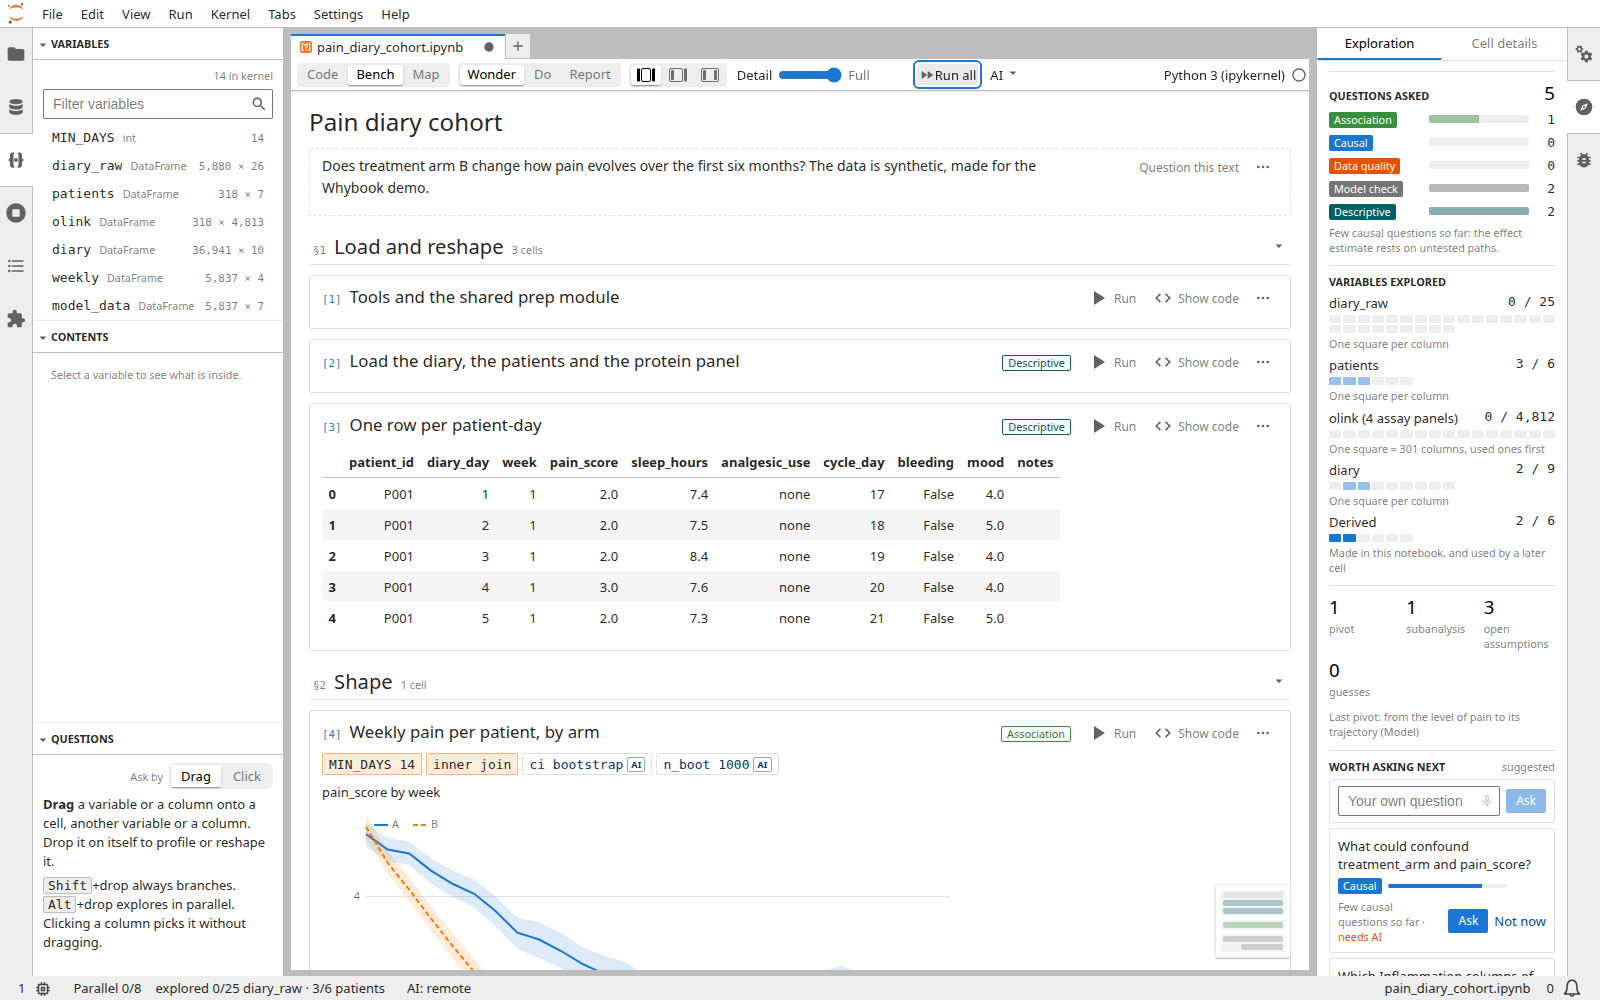
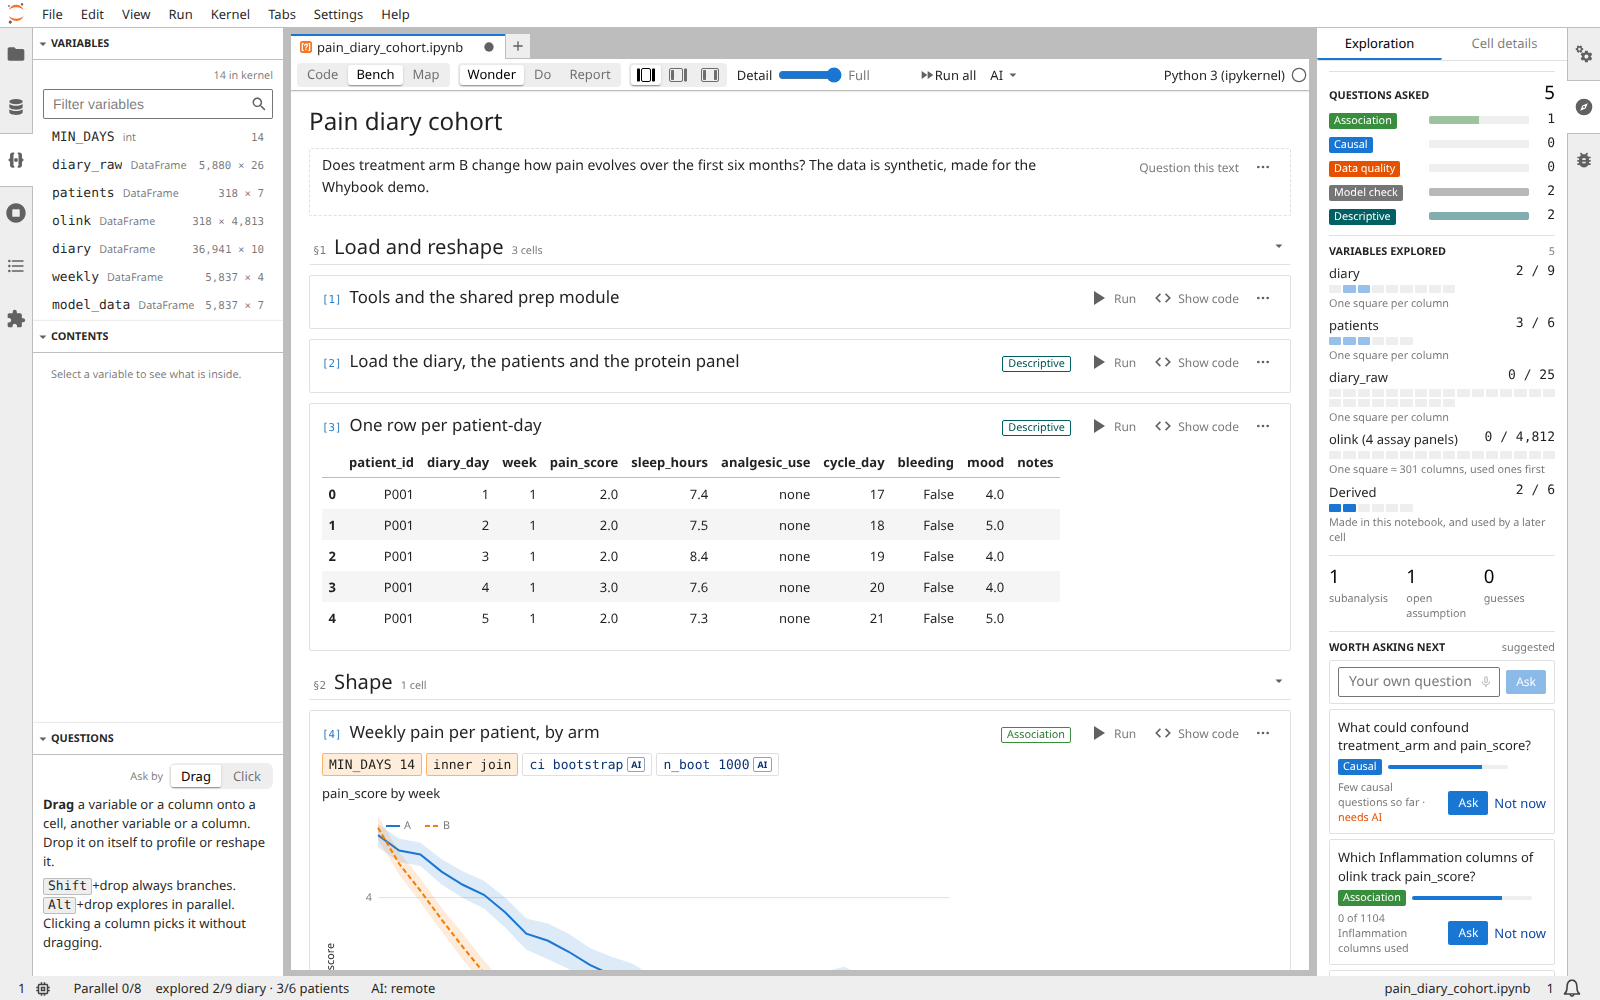
Update README, add CONTRIBUTING.md

diff --git a/README.md b/README.md
@@ -2,32 +2,33 @@
 
 [![Github Actions Status](https://github.com/openteams-ai/whybook/actions/workflows/build.yml/badge.svg)](https://github.com/openteams-ai/whybook/actions/workflows/build.yml)
 [![Sandbox](https://github.com/openteams-ai/whybook/actions/workflows/sandbox.yml/badge.svg)](https://github.com/openteams-ai/whybook/actions/workflows/sandbox.yml)
-[![Binder](https://mybinder.org/badge_logo.svg)](https://mybinder.org/v2/gh/openteams-ai/whybook/main?urlpath=lab/tree/pain_diary_demo.ipynb)
+[![PyPI](https://img.shields.io/pypi/v/whybook)](https://pypi.org/project/whybook/)
+[![Binder](https://mybinder.org/badge_logo.svg)](https://mybinder.org/v2/gh/openteams-ai/whybook/main?urlpath=lab/tree/examples/pain_diary/pain_diary_cohort.ipynb)
 
 > [!WARNING]
 > **Research prototype.** Whybook is a research prototype for the future of Jupyter interfaces: [whybook.dev](https://whybook.dev) describes the idea. Its features, settings and notebook metadata can change between releases without deprecation.
 
 ## You ask the questions. Agents write the code.
 
-Whybook is a view of a Jupyter notebook for asking questions about data and understanding every result. It has no chat box. The analyst picks one of the questions it offers, or types or says their own. The offers follow what the analyst points at (a column dragged onto a cell or clicked in Click mode, a region of a plot, a chip on a cell). The code comes from a template or from the AI model of the analyst's choice, and Whybook places the cell and runs it. Every constant, default and choice behind the result is shown on the cell, where the analyst can question it.
+Whybook is a JupyterLab extension: a view of a Jupyter notebook for asking questions about data and understanding every result. It has no chat box. The analyst picks one of the questions it offers, or types or says their own. The offers follow what the analyst points at (a column dragged onto a cell or clicked in Click mode, a region of a plot, a chip on a cell). The code comes from a template or from the AI model of the analyst's choice, and Whybook places the cell and runs it. Every constant, default and choice that Whybook finds behind the result is shown on the cell, where the analyst can question it.
+
+Any `.ipynb` file opens in Whybook and stays an ordinary notebook: the questions, choices and assumptions go into its metadata. Whybook opens next to JupyterLab's notebook editor, and both share one notebook model and one kernel, so an edit in one shows in the other.
 
 [whybook.dev](https://whybook.dev) also gives the evidence behind the idea, and [the roadmap](https://whybook.dev/roadmap.html) sets out the path to v1.
 
-![Whybook showing the demo notebook in JupyterLab after Run all. Cell [4] carries the chips MIN_DAYS 14, inner join, ci bootstrap and n_boot 1000, and the Exploration panel counts the questions asked by type.](https://raw.githubusercontent.com/openteams-ai/whybook/main/screenshots/bench.png)
+![Whybook showing the demo notebook in JupyterLab after Run all. Cell [4] carries the chips MIN_DAYS 14, inner join, ci bootstrap and n_boot 1000, and the Exploration panel counts the questions asked by type.](https://raw.githubusercontent.com/openteams-ai/whybook/main/screenshots/bench-chips.png)
 
 ## What it does
 
-- **Ask by pointing at the data.** The analyst drags a variable, a column, a file or a database table onto a cell, or clicks the two in Click mode, and Whybook offers up to 12 ranked questions of five types, each with a place in the notebook. Most of them run code from a template at once, with no model call.
-- **Every choice in plain sight.** After a cell runs, Whybook reads its code against the live kernel and shows each value that the result depends on as a chip, such as `MIN_DAYS 14`, or `inner join ×2` for two merges that keep pandas' default. A constant defined in an imported file shows on the cell that uses it.
-- **Question a plot.** Every mark of a plot drawn with the `whybook` helpers maps to rows of its data frame. Whybook counts the rows behind a selection, reports what differs there and offers questions about it.
+- **Ask by pointing at the data.** The analyst drags a variable, a column, a file or a table of a SQLite file onto a cell, or clicks the two in Click mode. Whybook then offers up to 12 ranked questions of five types (descriptive, data quality, association, causal and model check), each with a place in the notebook. Most of them run code from a template at once, with no model call.
+- **Every choice in plain sight.** After a cell runs, Whybook reads its code against the live kernel and shows each value that it finds the result depends on as a chip, such as `MIN_DAYS 14`, or `inner join ×2` for two merges that keep pandas' default. A constant defined in an imported file shows on the cell that uses it.
+- **Question a plot.** Every mark of a plot drawn with the `whybook` helpers maps to rows of its data frame, and so does a box drawn on a Plotly scatter chart, or on a matplotlib figure whose axes hold numbers and whose x label names a column. Whybook counts the rows behind a selection, reports what differs there and offers questions about it. A question about any other picture sends the picture to the AI model.
 - **Branch in parallel.** Shift+drop turns a question into a branch, and Alt+drop starts several branches at once. Each branch runs in its own kernel subshell (JEP 91, ipykernel 7), on the same data, and the notebook stays one list of cells.
 - **Answers that need AI.** For a question that needs a new cell, an agent adds and runs the cells it needs, and ends with a short answer that links the cells that show it. An edit, a branch or a preview gets one cell. Every cell that a model wrote is marked, and one click removes the cells of a run.
 - **Python and R.** In an R kernel, Whybook lists the variables, shows the chips and offers the questions, and a model writes the code of each answer in R. The templates write Python only.
 - **A kernel in a sandbox.** "Python 3 (sandboxed)" sees the notebook's folder and no network, under bubblewrap on Linux and Seatbelt on macOS. `python -m whybook.sandbox <kernel name>` makes a sandboxed copy of any other kernel, such as R.
 
-The notebook stays an ordinary `.ipynb` file: the questions, choices and assumptions go into its metadata. Whybook opens next to the classic notebook editor, and both share one notebook model and one kernel, so an edit in one shows in the other.
-
-![A selection of weeks 14 to 24 on the plot of cell [4]. Whybook counts 2,050 rows and 262 patients behind it, reports that A minus B is +1.86 there and +1.33 elsewhere, and offers three questions, each with its place in the notebook.](https://raw.githubusercontent.com/openteams-ai/whybook/main/screenshots/plot-selection.png)
+![A selection of weeks 14 to 24 on the plot of cell [4]. Whybook counts 2,050 rows and 262 patients behind it, reports that A minus B is +1.86 there and +1.33 elsewhere, and offers five questions, each with its place in the notebook.](https://raw.githubusercontent.com/openteams-ai/whybook/main/screenshots/plot-selection.png)
 
 The data in the screenshots is synthetic: the demo cohort of `examples/pain_diary`.
 
@@ -36,41 +37,40 @@ The data in the screenshots is synthetic: the demo cohort of `examples/pain_diar
 Whybook needs Python 3.10 or later and JupyterLab 4.4 or later, in the 4.x series.
 
 ```bash
-pip install "whybook[claude,kernel,demo,local,models]"
+pip install "whybook[kernel,demo,models]"
 jupyter lab
 ```
 
-`local` builds llama-cpp-python for the local models, with the system's C++ compiler, in about 4 minutes: without a compiler, leave it out of the list. Add `speech` for spoken questions transcribed by Moonshine in the Jupyter server, on Linux x86_64 or macOS 15 on Apple silicon.
+To run small AI models in the Jupyter server too, add `local`: pip builds llama-cpp-python with the system's C++ compiler, in about 4 minutes on 8 virtual CPUs.
 
-To open a notebook in Whybook, right-click it in the file browser and choose Open With, then Whybook. On JupyterLab 4.6 and later, the sections of the Whybook panel can also move to the file browser.
+```bash
+pip install "whybook[kernel,demo,local,models]"
+jupyter lab
+```
+
+Add `speech` for spoken questions transcribed by Moonshine in the Jupyter server, on Linux x86_64 or macOS 15 on Apple silicon. On Linux, `speech` needs glibc 2.34 or later, as in Ubuntu 22.04. The setting Spoken questions in the AI models panel is off by default: choose Moonshine Medium or Small there. The first click on the microphone of a "Your own question" box then downloads the model.
+
+Whybook reads the data in the kernel. When a kernel runs in another environment, install `whybook[kernel]` there too, and `demo` for the demo. `kernel` installs narwhals, and without it the Variables panel shows data frames without their columns.
+
+To open a notebook in Whybook, right-click it in the file browser and choose Open With, then Whybook. With a notebook open in JupyterLab's notebook editor, "Open Notebook in Whybook" in the command palette does the same. A new notebook starts from the Whybook section of the Launcher, or from File, New, Whybook. A double-click still opens JupyterLab's notebook editor. To open notebooks in Whybook by default, set Default Viewers of the Document Manager to `{"notebook": "Whybook"}` in the Settings Editor. On JupyterLab 4.6 and later, the sections of the Whybook panel can also move to the file browser.
 
 Whybook also runs in Jupyter Notebook 7: on a notebook's page, the switch Notebook | Whybook in the menu bar shows Whybook in place of the notebook editor. Whybook has some limitations in Notebook 7 that it does not have in JupyterLab. They are bugs and improvements, tracked in issues of their own, often in upstream projects.
 
 ## Try the demo
 
-Clone this repository and open `pain_diary_demo.ipynb` from its root in Whybook, then press Run all: the notebook imports its helpers and data from `examples/pain_diary/`. `pain_diary_demo_6h.ipynb` is the same analysis after six more hours of work.
+Clone this repository and open `examples/pain_diary/pain_diary_cohort.ipynb` in Whybook, then press Run all: the notebook imports its helpers and data from `prep.py` in the same folder. `examples/pain_diary/pain_diary_cohort_6h.ipynb` is the same analysis after six more hours of work.
 
-The questions from templates work with no AI model. Questions marked needs AI, and questions that the analyst types, need a model connected in the AI models panel: OpenRouter or Hugging Face after a sign-in, an API key of Anthropic, OpenAI, Google or Mistral AI, or a model server on this machine.
+The questions from templates work with no AI model. Questions marked needs AI, and questions that the analyst types, need a model connected in the AI models panel: OpenRouter after a sign-in, a Hugging Face access token, an API key of Anthropic, OpenAI, Google or Mistral AI, or a model server on this machine.
+
+To try it without installing, [open the demo on Binder](https://mybinder.org/v2/gh/openteams-ai/whybook/main?urlpath=lab/tree/examples/pain_diary/pain_diary_cohort.ipynb), with no AI model connected.
 
 ## What leaves the machine
 
 Once a remote AI model is connected, Whybook sends it each table that it shows as a tile, to get a label, and asks it for more questions each time the analyst drags or clicks. With the setting "Keep data on this machine", no values, tables or pictures leave the machine, and `c.Whybook.keep_data_local = True` turns it on for every user of a Jupyter server.
 
-## Development
+## Report a problem or contribute
 
-Whybook is one Python package, `whybook`: the helpers that a notebook imports (`import whybook`), the server extension (`whybook.server`) and the frontend extension of the same name. From a clone of this repository:
-
-```bash
-pip install --editable ".[dev,test,claude,kernel,demo,speech]"
-jupyter-builder develop . --overwrite
-jupyter server extension enable whybook
-jlpm build
-pre-commit install
-```
-
-Run `jlpm build` again after each change to the TypeScript source, or keep `jlpm watch` running beside `jupyter lab`. The Python tests run with `pytest whybook/server/tests`, and the Jest tests with `jlpm test`. The integration tests are in `ui-tests/`, whose README has their commands.
-
-`pre-commit install` adds a git hook that runs stylelint, prettier and ESLint on the files of each commit, as `jlpm lint:check` does on every file on CI. When a linter fixes a file, the commit stops: stage the fix and commit again.
+Report a problem or ask a question in [the issues](https://github.com/openteams-ai/whybook/issues). [CONTRIBUTING.md](https://github.com/openteams-ai/whybook/blob/main/CONTRIBUTING.md) explains how to report a security problem privately, set up a checkout and run the tests.
 
 ## Uninstall
 
@@ -78,7 +78,14 @@ Run `jlpm build` again after each change to the TypeScript source, or keep `jlpm
 pip uninstall whybook
 ```
 
+pip leaves Whybook's folder in Jupyter's data folder, with the keys and sign-ins of the AI models panel in `keys.json`. To remove them, delete the `whybook` folder in the folder that `jupyter --data-dir` prints. The models that Whybook downloaded stay in the caches of Hugging Face and moonshine-voice, and in `~/.cache/whybook`. A kernel copied with `python -m whybook.sandbox` stays until `jupyter kernelspec remove <name>`. Whybook also installs jupyterlab-unfold, and the file browser stays a tree until `pip uninstall jupyterlab-unfold`.
+
 ## Troubleshoot
+
+- pip fails while it builds llama-cpp-python: install a C++ compiler, or leave `local` out of the list.
+- The Variables panel shows data frames without their columns: install `whybook[kernel]` in the kernel's environment.
+- Questions marked needs AI are greyed: connect a model in the AI models panel. The item of the status bar that starts with "AI:" opens it.
+- Python 3 (sandboxed) does not start: on Linux it needs bubblewrap, and on Ubuntu 24.04 also an AppArmor profile for bubblewrap. The "Error Starting Kernel" dialog gives the commands.
 
 If you are seeing the frontend extension, but it is not working, check that the server extension is enabled:
 
@@ -94,4 +101,4 @@ jupyter labextension list
 
 ## License
 
-Whybook is under the Apache License 2.0: see [LICENSE](LICENSE). The Seatbelt profiles in `whybook/sandbox/codex/` come from OpenAI Codex, under the same licence, with its LICENSE and NOTICE.
+Whybook is under the Apache License 2.0: see [LICENSE](https://github.com/openteams-ai/whybook/blob/main/LICENSE). The Seatbelt profiles in `whybook/sandbox/codex/` come from OpenAI Codex, under the same licence, with its LICENSE and NOTICE.

diff --git a/CONTRIBUTING.md b/CONTRIBUTING.md
@@ -1,0 +1,52 @@
+# Contributing to Whybook
+
+## Report a problem or propose a change
+
+Report a bug or ask a question in [the issues](https://github.com/openteams-ai/whybook/issues). Give the versions of Whybook, JupyterLab, Python and the browser, the steps that show the problem, and what you expected. Leave out API keys, and data that you cannot share.
+
+Pull requests are welcome. For a change larger than a fix, open an issue first to discuss it. CI runs the linters and the tests on each pull request.
+
+## Report a security problem
+
+Report a security problem privately, never in a public issue. On the [Security tab](https://github.com/openteams-ai/whybook/security) of this repository, press "Report a vulnerability".
+
+## Full install
+
+A full install of a release adds the local models and the Claude Code login to what the README installs:
+
+```bash
+pip install "whybook[claude,kernel,demo,local,models]"
+```
+
+The extra `claude` serves the Claude Code login, for development only: the server offers it when it starts with `--Whybook.claude_code_login=True`.
+
+## Set up a checkout
+
+Whybook is one Python package, `whybook`: the helpers that a notebook imports (`import whybook`), the server extension (`whybook.server`) and the frontend extension of the same name. The editable install builds the frontend extension, so it needs [Node.js](https://nodejs.org/en/download), in its latest LTS release. From a clone of this repository:
+
+```bash
+pip install --editable ".[dev,test,claude,kernel,demo,models]"
+jupyter-builder develop . --overwrite
+jupyter server extension enable whybook
+jlpm build
+pre-commit install
+```
+
+Add `speech` where moonshine-voice has a wheel: macOS 15 on Apple silicon, Linux with glibc 2.34 or later, and Windows.
+
+`jlpm` is the version of yarn that JupyterLab installs. Run `jlpm build` again after each change to the TypeScript source, or keep `jlpm watch` running beside `jupyter lab`.
+
+## Run the tests and the linters
+
+- `pytest` from the root runs the Python tests. Where no sandbox can start, the tests of the sandboxed kernel skip.
+- `jlpm test` runs the Jest tests.
+- The integration tests are in `ui-tests/`, whose README has their commands.
+- `jlpm lint:check` runs stylelint, prettier and ESLint on every file, as CI does. ESLint reads the types of the integration tests from `ui-tests/node_modules`, so run `jlpm install` in `ui-tests/` first.
+
+The git hook of `pre-commit install` runs the same linters on the files of each commit. When a linter fixes a file, the commit stops: stage the fix and commit again.
+
+## Rules for a change
+
+- No test calls an AI model. The Python tests fake each call, and each integration test answers the requests that would reach a model.
+- Every method of a server handler carries `@tornado.web.authenticated`. `python .github/scripts/check_auth.py` fails otherwise, and CI runs it.
+- The code that Whybook sends to the kernel is in `whybook/server/kernel_code/`, and `jlpm build` copies it into `src/kernelCode.ts`. Edit the files in `kernel_code/`, then run `jlpm build` and commit both.
